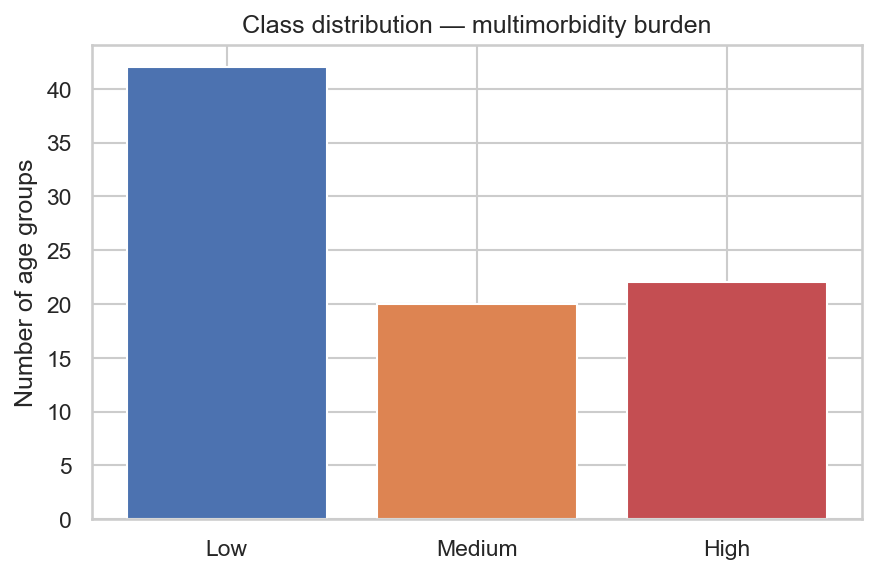
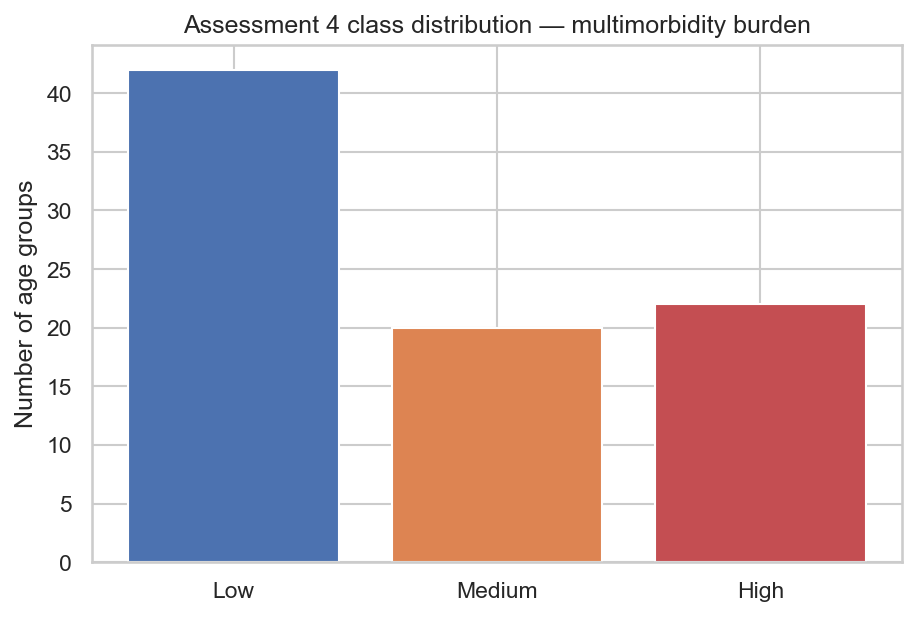
modified:   .vscode/settings.json 	modified:   Assignment_4_Script/1_A4_eda.py 	modified:   Assignment_4_Script/2_A4_classification.py 	new file:   outputs/Assignment_4/classification/eval_confusion_matrices_medium.png 	new file:   outputs/Assignment_4/classification/eval_roc_auc_medium.png 	new fil

diff --git a/Assignment_4_Script/1_A4_eda.py b/Assignment_4_Script/1_A4_eda.py
@@ -1,10 +1,11 @@
 """
-Self-contained medium EDA for Assignment 4 (copy adapted for update_asign_4).
-This folder contains a small preprocessing script to build the regression
-dataset if needed. Outputs are written under `output/eda` in this folder.
+Assessment 4 exploratory data analysis for the multimorbidity classification task.
 
-Run from the repo or by changing into this folder:
-    python assignment4_eda_medium.py
+This script builds the multimorbidity target from the shared regression dataset,
+creates Assignment 4 EDA outputs, and saves them under outputs/Assignment_4/eda.
+
+Run from the repo root:
+    python Assignment_4_Script/1_A4_eda.py
 """
 
 from logging import root
@@ -55,14 +56,10 @@ def main():
 
     # Class distribution
     counts = df["multimorbidity_class"].value_counts().reindex(["Low","Medium","High"]).fillna(0)
-    fig, ax = plt.subplots(figsize=(6,4))
+    fig, ax = plt.subplots(figsize=(6,4), constrained_layout=True)
     ax.bar(counts.index.astype(str), counts.values, color=["#4C72B0","#DD8452","#C44E52"])
-    ax.set_title("Class distribution — multimorbidity burden")
+    ax.set_title("Assessment 4 class distribution — multimorbidity burden")
     ax.set_ylabel("Number of age groups")
-    try:
-        fig.tight_layout()
-    except Exception:
-        pass
     plt.savefig(OUT / "eda_class_distribution.png", dpi=150, bbox_inches="tight")
     plt.close()
 
@@ -76,7 +73,7 @@ def main():
     ]
     available = [f for f in KEY_FEATURES if f in df.columns]
     if available:
-        fig, axes = plt.subplots(1, len(available), figsize=(4*len(available),4))
+        fig, axes = plt.subplots(1, len(available), figsize=(4*len(available),4), constrained_layout=True)
         if len(available) == 1:
             axes = [axes]
         for ax, feat in zip(axes, available):
@@ -86,35 +83,27 @@ def main():
                 patch.set_facecolor(color)
                 patch.set_alpha(0.7)
             ax.set_title(feat.replace("nhs_",""))
-        try:
-            fig.tight_layout()
-        except Exception:
-            pass
         plt.savefig(OUT / "eda_key_feature_boxplots.png", dpi=150, bbox_inches="tight")
         plt.close()
 
     # Top correlations
     rate_cols = [c for c in df.columns if c.endswith("_rate")]
     if rate_cols:
-        corr = df[rate_cols].corrwith(df["disease_type_count"]).abs().sort_values(ascending=False)
+        valid_rate_cols = [c for c in rate_cols if df[c].std(skipna=True) != 0]
+        if valid_rate_cols:
+            corr = df[valid_rate_cols].corrwith(df["disease_type_count"]).abs().sort_values(ascending=False)
+        else:
+            corr = pd.Series(dtype=float)
         top = corr.head(25)
         top.to_csv(OUT / "eda_top25_correlations.csv")
         top_cols = top.index.tolist()
-        corrmat = df[top_cols].corr()
-        # drop any columns with zero variance to avoid divide-by-zero in correlation
-        valid_top_cols = [c for c in top_cols if df[c].std(skipna=True) != 0]
-        if len(valid_top_cols) >= 2:
-            corrmat = df[valid_top_cols].corr()
-            fig, ax = plt.subplots(figsize=(10,8))
+        if len(top_cols) >= 2:
+            corrmat = df[top_cols].corr()
+            fig, ax = plt.subplots(figsize=(10,8), constrained_layout=True)
             sns.heatmap(corrmat, cmap="vlag", center=0, ax=ax)
-            ax.set_title("Correlation matrix — top 25 features")
-            try:
-                fig.tight_layout()
-            except Exception:
-                pass
+            ax.set_title("Assessment 4 correlation matrix — top 25 features")
             plt.savefig(OUT / "eda_top25_correlation_heatmap.png", dpi=150, bbox_inches="tight")
             plt.close()
-        plt.close()
 
     summary = {"rows": len(df), "cols": len(df.columns), "t33": float(t33), "t66": float(t66)}
     pd.DataFrame([summary]).to_csv(OUT / "eda_summary_medium.csv", index=False)

diff --git a/Assignment_4_Script/2_A4_classification.py b/Assignment_4_Script/2_A4_classification.py
@@ -1,10 +1,11 @@
 """
-Self-contained medium classification pipeline (copy adapted for update_asign_4).
- Writes outputs under `output/classification` within this folder. If the
- regression dataset is missing, it will call the shared Assignment_2 preprocessing script.
+Assessment 4 classification pipeline for multimorbidity risk grouping.
 
-Run:
-    python assignment4_classification_medium.py
+The script trains three taught classifiers, evaluates them with cross-validation,
+and writes outputs under outputs/Assignment_4/classification.
+
+Run from the repo root:
+    python Assignment_4_Script/2_A4_classification.py
 """
 
 import warnings
@@ -184,7 +185,7 @@ def evaluate(results, y, X, features, t33, t66):
         rows.append({"Comparison": f"{m1} vs {m2}", "t-pval": round(t_pval,4), "wilcoxon-p": round(w_pval,4), "Conclusion": concl})
     pd.DataFrame(rows).to_csv(OUT / "statistical_tests_medium.csv", index=False)
 
-    print("Evaluation outputs saved to:", OUT)
+    print("Assessment 4 evaluation outputs saved to:", OUT)
 
 def main():
     ensure_dataset()
